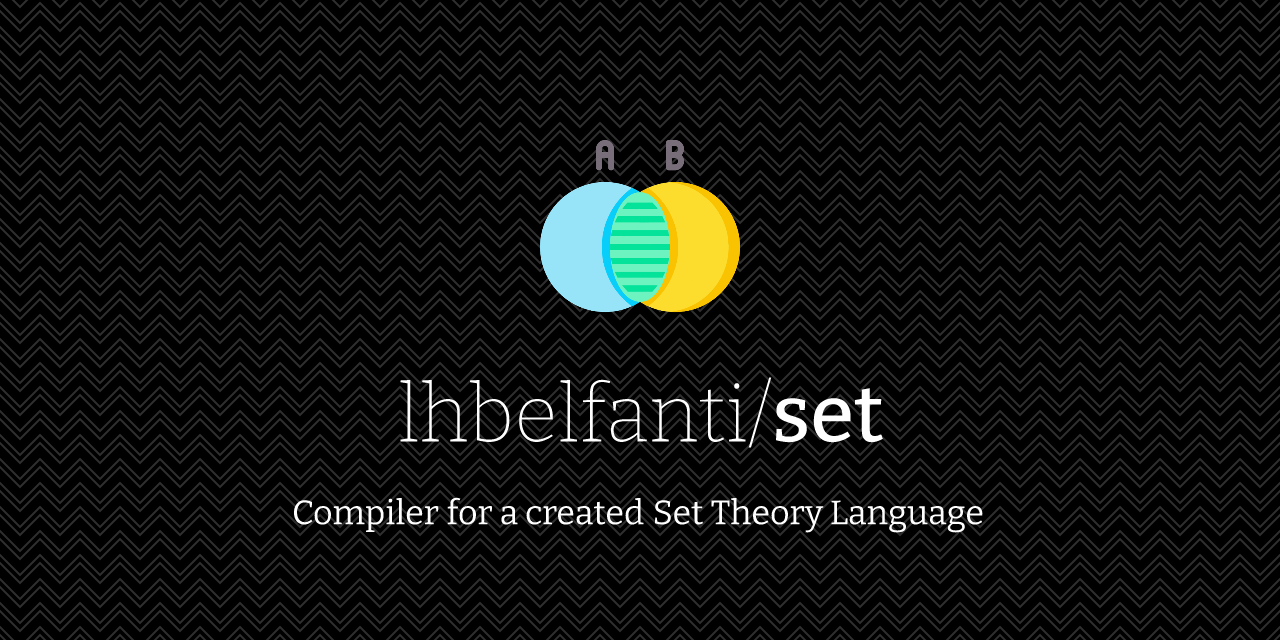
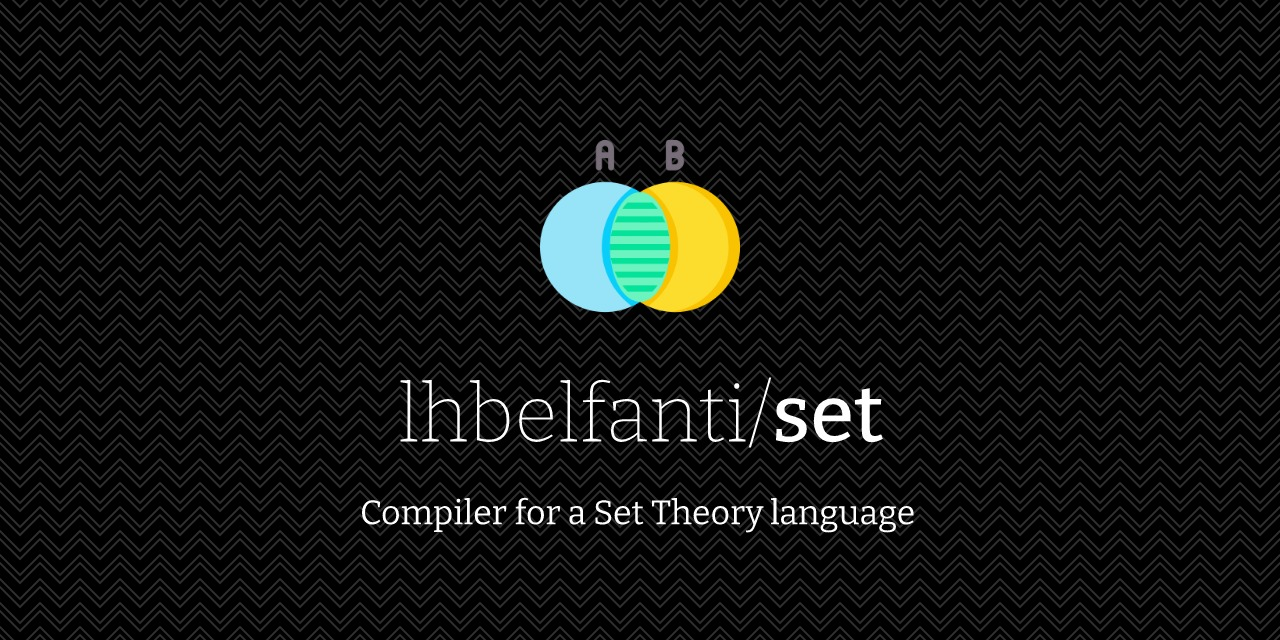
Updated README.md

Changed region(s): [[0.2188, 0.7812, 0.7812, 0.8438], [0.4688, 0.2812, 0.5625, 0.5]]

diff --git a/README.md b/README.md
@@ -2,7 +2,7 @@
   <picture>
     <source media="(prefers-color-scheme: dark)" srcset="media/set-dark.png">
     <source media="(prefers-color-scheme: light)" srcset="media/set-light.png">
-    <img alt="Twitter News - Application that converts the tweets from the trending topics into news." src="media/set-dark.png">
+    <img alt="Set - Compiler for a Set Theory Language." src="media/set-dark.png">
   </picture>
 
   <br />
